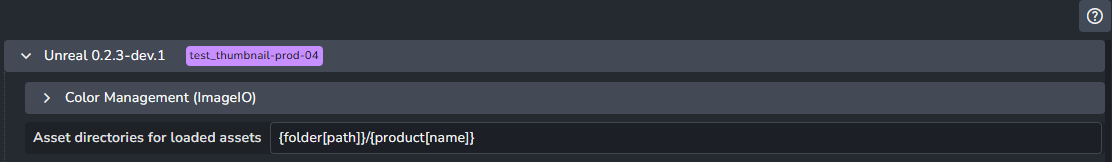
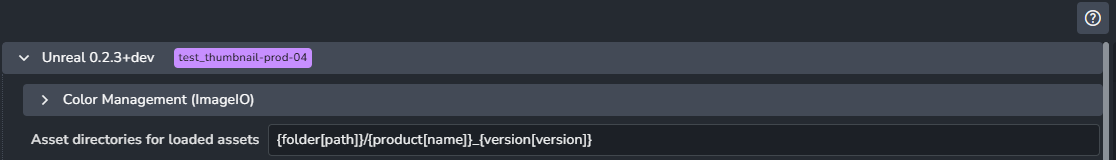
add info for unreal docs

Changed region(s): [[0.0, 0.25, 1.0, 1.0], [0.0306, 0.5625, 0.2446, 0.6562], [0.9478, 0.0, 1.0, 0.2188]]

diff --git a/website/docs/addon_unreal_artist.md b/website/docs/addon_unreal_artist.md
@@ -80,8 +80,20 @@ The AYON menu will be the main tool to interact with AYON in Unreal. It will all
 The structure of the project data is handled by AYON. The first time you create an instance or load an asset, AYON will create a folder called `AYON` in the Content Browser. This folder will contain all the data handled by AYON, and it is organised as follows:
 - `/Content/AYON/` is the default AYON root directory.
 - `/Content/AYON/{your_folder_path}/{your_product_name}` is the default directory which contains all the single assets that are loaded from AYON. Users can customize their asset directories through `ayon+settings://unreal/loaded_asset_dir`
+By default, the asset directories for all loaded assets are `{folder[path]}/{product[name]}_{version[version]}`
 
 ![Unreal AYON Asset Directories Setting](assets/unreal_ayon_asset_directory_setting.png)
+
+::: note
+There are several formats we can use as the template for the asset directories.
+For example:
+{folder[name]}: folder name
+{folder[path]}: folder path
+{product[name]}: product name
+{product{productType}}: product type
+{version[version]}: version number
+{representation[name]}: name of the representation type
+:::
 
 - `/Content/AYON/Assets` contains all the single assets that are loaded from AYON.
 - `/Content/AYON/PublishInstances` contains all the instances that are created in Unreal.
